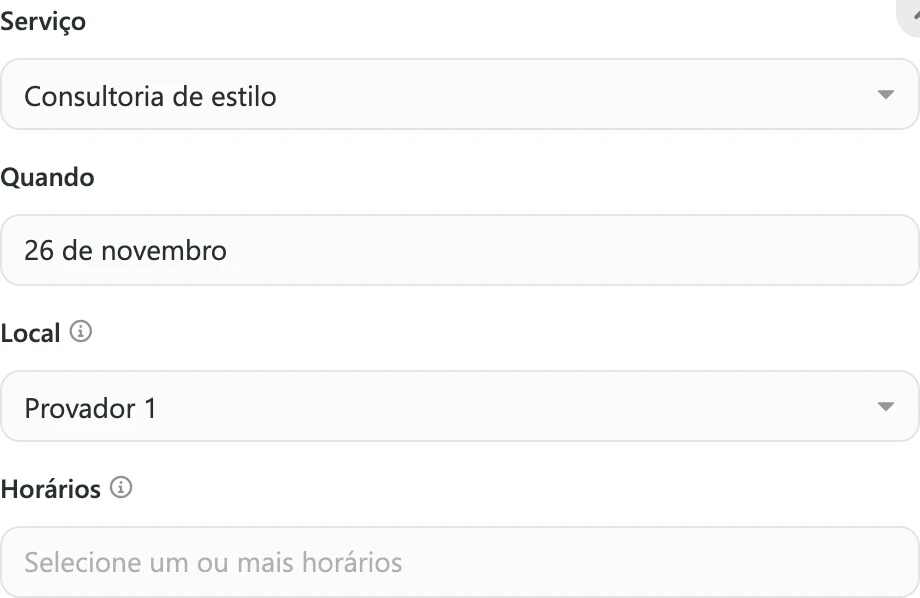
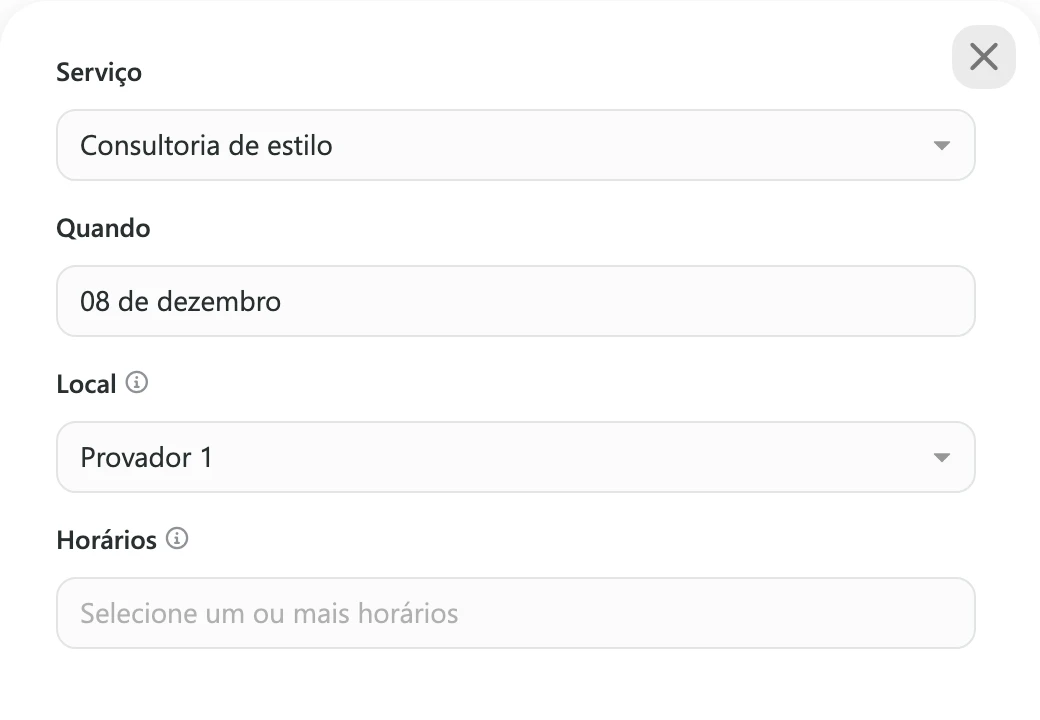
docs(ajuda): Kinbox Agenda, correções do conselho (rodada 1)
Tira a etapa da Agenda do seed e os caminhos com nome interno do
frontmatter; horário só selecionado no serviço; período da lista de
Tarefas; reagendar/cancelar só em Confirmado; detalhes e calendário;
permissões da Agenda; data de nascimento no agente; prints refeitos
e novo print do Tipo da tarefa.

diff --git a/scripts/screenshots/seed.ts b/scripts/screenshots/seed.ts
@@ -9,7 +9,7 @@
  *
  * Todos os nomes, e-mails (`example.com`) e telefones (`+55 11 90000-00NN`) são fictícios.
  */
-import { API_V0, DOCS_WORKSPACE_NAME, WEB_URL, client, findDocsWorkspace, login, sleep, type LoginWorkspace } from './staging'
+import { API_V0, DOCS_WORKSPACE_NAME, client, findDocsWorkspace, login, sleep, type LoginWorkspace } from './staging'
 
 // ---------------------------------------------------------------------------------------------------------
 // Cenário
@@ -940,125 +940,6 @@ async function garantirDashboard(api: Api) {
   log(`dashboard: "${DASHBOARD_EXEMPLO}"${reaproveitado ? ' (reaproveitado)' : ''}, ${snapshots.length} snapshot(s)`)
 }
 
-/**
- * Kinbox Agenda (prints da seção `agenda`): o horário `Atendimento com hora marcada`, os produtos e serviços
- * `Consultoria de estilo` e `Ajuste de roupa` (ativos) e `Personal shopper` (inativo), os locais `Provador 1`,
- * `Ateliê` e `Provador 2` (indisponível) e agendamentos de contatos fictícios na semana seguinte (um cancelado).
- * A Agenda é um serviço à parte: o endereço dele é lido do próprio app do staging (nada de host no repositório).
- * Nenhum lembrete é enviado (a tela de lembretes está desligada) e os contatos usam `example.com` e `+55 11 90000-00NN`.
- */
-async function enderecoAgenda() {
-  const html = await (await fetch(WEB_URL + '/')).text()
-  const js = html.match(/src="(\/assets\/index-[^"]+\.js)"/)?.[1]
-  if (!js) throw new Error('não achei o bundle do app do staging para ler o endereço da Agenda')
-  const bundle = await (await fetch(WEB_URL + js)).text()
-  const base = bundle.match(/kingendaUrl:"([^"]+)",key:"staging"/)?.[1]
-  if (!base) throw new Error('não achei o endereço da Agenda no app do staging')
-  return base
-}
-
-async function garantirAgenda(api: Api, token: string, contatoIds: Record<string, string>) {
-  const base = await enderecoAgenda()
-  const agenda = async (method: string, path: string, body?: unknown) => {
-    const res = await fetch(base + path, {
-      method,
-      headers: { Authorization: `Bearer ${token}`, 'Content-Type': 'application/json', 'Accept-Language': 'pt-BR' },
-      body: body === undefined ? undefined : JSON.stringify(body),
-    })
-    const text = await res.text()
-    if (!res.ok) throw new Error(`Agenda ${method} ${path} → ${res.status}: ${text.slice(0, 300)}`)
-    return text ? JSON.parse(text) : null
-  }
-  const me = await agenda('GET', '/workspaces/me').catch(() => null)
-  if (!me?.exists) throw new Error('o workspace ainda não existe na Agenda: abra o app uma vez com a conta proprietária')
-
-  // Horário dos serviços (segunda a sexta, 9h às 18h; sábado, 9h às 13h)
-  const NOME_HORARIO = 'Atendimento com hora marcada'
-  let horario = lista(await api.v0('GET', '/business-hours')).find((h) => h.name === NOME_HORARIO)
-  const util = { active: true, hours: [['09:00', '18:00']] }
-  const sabado = { active: true, hours: [['09:00', '13:00']] }
-  if (!horario) {
-    horario = await api.v0('POST', '/business-hours', {
-      name: NOME_HORARIO, mon: util, tue: util, wed: util, thu: util, fri: util, sat: sabado, sun: { active: false, hours: [] },
-    })
-    horario = lista(await api.v0('GET', '/business-hours')).find((h) => h.name === NOME_HORARIO) || horario
-  }
-  // Mesmo formato que a tela manda (espelho do horário: mon..sun com active/hours)
-  const DIAS = [1, 2, 3, 4, 5, 6]
-  const semana = { mon: util, tue: util, wed: util, thu: util, fri: util, sat: sabado, sun: { active: false } }
-
-  // Produtos e serviços
-  const SERVICOS = [
-    { name: 'Consultoria de estilo', description: 'Sessão com uma consultora para montar looks.', price: 200, minutos: 60, ativo: true },
-    { name: 'Ajuste de roupa', description: 'Prova e marcação de ajustes na peça.', price: 50, minutos: 30, ativo: true },
-    { name: 'Personal shopper', description: 'Acompanhamento de compras na loja.', price: 300, minutos: 90, ativo: false },
-  ]
-  const produtos = lista(await api.v3('GET', '/products?limit=100'))
-  const servicos = lista(await agenda('GET', '/services?limit=100'))
-  for (const s of SERVICOS) {
-    let produto = produtos.find((p) => p.name === s.name)
-    if (!produto) produto = await api.v3('POST', '/products', { name: s.name, description: s.description, price: s.price, isActive: s.ativo })
-    const existente = servicos.find((x) => x.name === s.name)
-    if (existente) {
-      if (existente.availableDaysOfWeek?.length !== DIAS.length) await agenda('PATCH', `/services/${existente._id}`, { availableDaysOfWeek: DIAS })
-      continue
-    }
-    servicos.push(
-      await agenda('POST', '/services', {
-        name: s.name, description: s.description, price: String(s.price * 100), defaultDurationMinutes: s.minutos,
-        status: s.ativo ? 'active' : 'inactive', weeklySchedule: semana, availableDaysOfWeek: DIAS, businessHoursExternalId: String(horario.id ?? horario._id),
-        productExternalId: String(produto.id), priceTiers: [], generatePaymentLink: false,
-      }),
-    )
-  }
-  const servico = (nome: string) => servicos.find((x) => x.name === nome)
-
-  // Locais
-  const LOCAIS = [
-    { name: 'Provador 1', location: 'Loja Centro', servicos: ['Consultoria de estilo', 'Ajuste de roupa'], status: 'available' },
-    { name: 'Ateliê', location: 'Bloco A', servicos: ['Ajuste de roupa'], status: 'available' },
-    { name: 'Provador 2', location: 'Loja Centro', servicos: ['Consultoria de estilo'], status: 'unavailable' },
-  ]
-  const locais = lista(await agenda('GET', '/resources?limit=100'))
-  for (const l of LOCAIS) {
-    if (locais.some((x) => x.name === l.name)) continue
-    locais.push(
-      await agenda('POST', '/resources', {
-        name: l.name, location: l.location, services: l.servicos.map((n) => servico(n)?._id).filter(Boolean),
-        status: l.status, sortOrder: 0, capacity: 1, allocationPriority: 5, combinable: true,
-      }),
-    )
-  }
-  const local = (nome: string) => locais.find((x) => x.name === nome)
-
-  // Agendamentos na semana seguinte (horário literal, sem fuso, como a tela grava)
-  const AGENDAMENTOS = [
-    { contato: 'Ana Souza', servico: 'Consultoria de estilo', local: 'Provador 1', dia: 1, inicio: '10:00', fim: '11:00' },
-    { contato: 'Mariana Lima', servico: 'Ajuste de roupa', local: 'Ateliê', dia: 1, inicio: '14:00', fim: '14:30' },
-    { contato: 'Juliana Rocha', servico: 'Consultoria de estilo', local: 'Provador 1', dia: 2, inicio: '15:00', fim: '16:00' },
-    { contato: 'Rafael Martins', servico: 'Ajuste de roupa', local: 'Ateliê', dia: 3, inicio: '11:00', fim: '11:30', cancelar: true },
-  ]
-  const segunda = new Date()
-  segunda.setDate(segunda.getDate() + ((8 - segunda.getDay()) % 7 || 7))
-  const dia = (n: number) => {
-    const d = new Date(segunda)
-    d.setDate(d.getDate() + n - 1)
-    return d.toISOString().slice(0, 10)
-  }
-  const existentes = lista(await agenda('GET', '/bookings?limit=100'))
-  if (existentes.length) return log(`agenda: ${servicos.length} serviços, ${locais.length} locais, ${existentes.length} agendamentos já existiam`)
-  for (const a of AGENDAMENTOS) {
-    const c = CONTATOS.find((x) => x.name === a.contato)!
-    const reserva = await agenda('POST', '/bookings', {
-      startDateTime: `${dia(a.dia)}T${a.inicio}:00.000Z`, endDateTime: `${dia(a.dia)}T${a.fim}:00.000Z`,
-      serviceId: servico(a.servico)?._id, resourceId: local(a.local)?._id,
-      user: { name: c.name, email: c.email, phone: c.phone, birthDate: '1990-05-10T00:00:00.000Z', contactExternalId: String(contatoIds[c.name]) },
-    })
-    if (a.cancelar) await agenda('PATCH', `/bookings/${reserva._id ?? reserva.id}`, { status: 'cancelled' })
-  }
-  log(`agenda: ${servicos.length} serviços, ${locais.length} locais, ${AGENDAMENTOS.length} agendamentos criados`)
-}
-
 // As etapas abaixo são independentes: uma falha é registrada e o seed segue com as outras
 // (as funções só rodam no laço do fim, depois que `api`, `canal`, `tagIds` e `contatoIds` existem)
 const falhas: Record<string, string> = {}
@@ -1077,7 +958,6 @@ const etapas: [string, () => Promise<unknown>][] = [
   ['salas', () => garantirSalas(api)],
   ['cenarios', () => garantirCenarios(api, canal)],
   ['dashboard', () => garantirDashboard(api)],
-  ['agenda', () => garantirAgenda(api, workspace.token, contatoIds)],
 ]
 // `bun seed.ts --so funil,membros,crm` roda só as etapas listadas (as do começo, idempotentes, rodam sempre).
 // `crm` depende de `funil` (o funil "Vendas") e de `membros` (os responsáveis): rode as três juntas.

diff --git a/llm/agenda/kinbox-agenda.md b/llm/agenda/kinbox-agenda.md
@@ -1,30 +1,25 @@
 ---
 title: "Agenda: disponibilidade, permissões, tarifas, reserva de lugares e capacidade"
 description: Regras e limites do Kinbox Agenda — disponibilidade por workspace, permissões e o que cada uma mostra, serviços, tarifas adicionais, reserva de lugares, capacidade dos locais, agendamentos, presença, reagendamento, cancelamento, dados exigidos do contato, mensagens de erro e o que a Agenda não faz.
-keywords: [kinbox agenda plano, adicione o agenda ao seu plano, liberar potencial agora, permissão gerenciar agendamentos, não vejo agendamentos, limite de pessoas, unir locais, intervalo entre reservas, capacidade do local, ordem de uso, pode ser juntado, ambiente, trocar espaços, selecione no máximo 10 espaços, agenda indisponível, nenhum horário disponível, data de nascimento obrigatória, campo vinculado ao kinbox agenda, fuso horário da agenda, lembrete de agendamento, google calendar agenda, excluir agendamento]
+keywords: [kinbox agenda plano, adicione o agenda ao seu plano, liberar potencial agora, permissão gerenciar agendamentos, não vejo agendamentos, limite de pessoas, unir locais, intervalo entre reservas, capacidade do local, ordem de uso, pode ser juntado, ambiente, trocar espaços, selecione no máximo 10 espaços, agenda indisponível, nenhum horário disponível, data de nascimento obrigatória, campo vinculado ao kinbox agenda, fuso horário da agenda, lembrete de agendamento, google calendar agenda, excluir agendamento, desmarcar, cliente faltou, não compareceu, bloquear horário, feriado, encaixe, agendamento não aparece na lista]
 publico: llm
 tipo: referencia
 fontes:
-  - web:src/pages/settings/agendas/EditKingendaService.tsx
-  - web:src/pages/settings/agendas/EditKingendaResource.tsx
-  - web:src/pages/kingenda/kingendaBookingDetails.tsx
+  - web:src/pages/settings/agendas/**
+  - web:src/pages/settings/location/**
   - web:src/pages/crm/tasks/EditTask.tsx
+  - web:src/pages/crm/tasks/index.tsx
+  - web:src/components-old/common/BigCalendar/index.tsx
   - web:src/pages/settings/roles/permissionSections.tsx
-  - web:src/hooks/useKingendaEnabled.ts
   - web:src/pages/agents/flow/useFlow.tsx
   - web:src/pages/agents/components/tools/ToolsPicker.tsx
   - api:src/modules/agents/flow/actions/agenda.helper.ts
   - api:src/modules/agents/flow/actions/agenda.operations.ts
 codigo:
-  - web:src/pages/kingenda/**
   - web:src/pages/settings/agendas/**
   - web:src/pages/settings/location/**
-  - web:src/pages/crm/tasks/EditTask.tsx
+  - web:src/pages/crm/tasks/**
   - web:src/components-old/common/BigCalendar/**
-  - web:src/lib/kingendaProductSync.ts
-  - web:src/lib/kingendaContactSync.ts
-  - web:src/hooks/useKingendaEnabled.ts
-  - web:src/hooks/useEnsureKingendaWorkspace.ts
   - api:src/modules/agenda/**
   - api:src/modules/agents/flow/actions/agenda.*
 verificado_em: 2026-11-26
@@ -35,8 +30,8 @@ Referência de regras, limites e mensagens do **Kinbox Agenda**. Complementa [Ki
 ## Disponibilidade e agentes de IA
 
 - Cada workspace tem a sua própria Agenda, sem ativação manual: a Kinbox prepara a Agenda do workspace quando o proprietário entra na Kinbox (ou ao criar ou entrar em um workspace novo).
-- **Agentes de IA:** as ferramentas **Listar serviços**, **Consultar horários**, **Criar agendamento**, **Listar agendamentos**, **Reagendar** e **Cancelar agendamento** (e os blocos equivalentes do fluxograma) usam a mesma Agenda do workspace. O agente lista, reagenda e cancela apenas agendamentos do contato da conversa, encontrados pelo telefone, e registra uma nota interna na conversa ao criar um agendamento. Veja [Dar ferramentas ao agente: Agenda, Google Calendar e HubSpot](/docs/agente-de-ia/ferramentas) e [Ações do fluxograma](/docs/agente-de-ia/acoes-do-fluxograma).
-- As ferramentas e os blocos da Agenda ficam liberados para o agente com o Kinbox Agenda ativo no workspace. Se a tela do agente mostrar o aviso **Adicione o Agenda ao seu plano** (com o botão **Liberar potencial agora**), fale com o suporte da Kinbox.
+- **Agentes de IA:** as ferramentas **Listar serviços**, **Consultar horários**, **Criar agendamento**, **Listar agendamentos**, **Reagendar** e **Cancelar agendamento** (e os blocos equivalentes do fluxograma) usam a mesma Agenda do workspace. O agente lista, reagenda e cancela apenas agendamentos do contato da conversa e registra uma nota interna na conversa ao criar um agendamento. Veja [Dar ferramentas ao agente: Agenda, Google Calendar e HubSpot](/docs/agente-de-ia/ferramentas) e [Ações do fluxograma](/docs/agente-de-ia/acoes-do-fluxograma).
+- As ferramentas e os blocos da Agenda ficam liberados para o agente com o Kinbox Agenda ativo no workspace. Se a tela do agente mostrar o aviso **Adicione o Agenda ao seu plano** (com o botão **Liberar potencial agora**), peça ao proprietário para entrar na Kinbox uma vez; se o aviso continuar, fale com o suporte da Kinbox.
 
 ## Permissões
 
@@ -44,28 +39,26 @@ As três permissões ficam na seção **Agendas** do papel (em **Configurações
 
 | Permissão | O que libera | O que acontece sem ela |
 | --- | --- | --- |
-| **Gerenciar serviços** | **Configurações** → **Agenda** → **Serviços**; cadastrar, editar, ativar e desativar serviços. | O item **Serviços** some do menu; abrir o endereço redireciona para **Configurações**. |
-| **Gerenciar locais** | **Configurações** → **Agenda** → **Local**; cadastrar, editar, ativar e desativar locais. | O item **Local** some do menu; abrir o endereço redireciona para **Configurações**. Sem **Gerenciar serviços** nem **Gerenciar locais**, a seção **Agenda** inteira some de **Configurações**. |
-| **Gerenciar agendamentos** | Ver agendamentos no **Calendário** e na lista de **Tarefas**; opção **Agendamento** em tarefa nova; botão **Filtros** da Agenda no calendário; ações nos detalhes (confirmar presença, reagendar, cancelar e trocar espaços). | Agendamentos não aparecem no calendário nem na lista de **Tarefas**, a opção **Agendamento** não aparece ao criar tarefa, os filtros da Agenda somem e os detalhes não exibem botões de ação. |
+| **Gerenciar serviços** | **Configurações** → **Agenda** → **Serviços**; cadastrar, editar, ativar e desativar serviços. | O item **Serviços** não aparece. |
+| **Gerenciar locais** | **Configurações** → **Agenda** → **Local**; cadastrar, editar, ativar e desativar locais. | O item **Local** não aparece. Sem **Gerenciar serviços** nem **Gerenciar locais**, a seção **Agenda** não aparece em **Configurações**. |
+| **Gerenciar agendamentos** | Ver agendamentos no **Calendário** e na lista de **Tarefas**; opção **Agendamento** em tarefa nova; botão **Filtros** da Agenda no calendário; ações nos detalhes (confirmar presença, reagendar, cancelar e trocar espaços). | Agendamentos não aparecem no calendário nem na lista de **Tarefas**, a opção **Agendamento** não aparece ao criar tarefa e os filtros da Agenda não aparecem. |
 
 - Para **ver** agendamentos no calendário e na lista de **Tarefas**, é necessário ter **Gerenciar agendamentos**.
-- **Sincronização das permissões:** as permissões são aplicadas à Agenda ao salvar o papel ou o membro. Em caso de falha na sincronização, aparecem:
-  - ao salvar papel: `"A permissão foi salva, mas não foi possível sincronizar o Kinbox Agenda para todos os membros."`
-  - ao salvar membro: `"Membro salvo, mas não foi possível sincronizar as permissões do Kinbox Agenda."`
-  - Contorno: salve o papel ou o membro novamente para refazer a sincronização.
+- Se, ao salvar um papel ou um membro, aparecer `"A permissão foi salva, mas não foi possível sincronizar o Kinbox Agenda para todos os membros."` ou `"Membro salvo, mas não foi possível sincronizar as permissões do Kinbox Agenda."`, salve de novo.
 
 ## Serviços e tarifas adicionais
 
 | Campo | Limite / regra | Padrão |
 | --- | --- | --- |
-| **Produto** | Obrigatório; lista apenas produtos ativos. Nome, descrição e preço vêm do produto. Pelo botão **Criar novo produto**, **Vincular ao Kinbox Agenda** abre ligado e travado e o preço inicial sugerido é `200`. Salvar o produto por **Criar novo produto** ou **Editar produto** exige também a permissão **Produtos** do papel ([Referência de permissões](/docs/administracao/referencia-de-permissoes)). | — |
+| **Produto** | Obrigatório; lista apenas produtos ativos. Nome, descrição e preço vêm do produto. Pelo botão **Criar novo produto**, **Vincular ao Kinbox Agenda** abre ligado e travado e o preço inicial sugerido é `200`. Para criar ou editar um produto por **Criar novo produto** ou **Editar produto**, é preciso a permissão **Produtos** (ou ser o proprietário); sem acesso a **Produtos** ou **Horários**, peça a quem tem para cadastrar o produto e o horário antes ([Referência de permissões](/docs/administracao/referencia-de-permissoes)). | — |
 | **Duração padrão (minutos)** | Obrigatório; mínimo `1`; ajuste de `5` em `5`. Com **Reserva de lugares** ligada, precisa ser múltiplo de `5`. | `60` |
-| **Horário** | Obrigatório; usa um cadastro de **Configurações** → **Ambiente** → **Horários** com ao menos um dia ativo. Mostra o resumo `"Dias: ... · HH:mm às HH:mm"`. | — |
+| **Horário** | Obrigatório; seleciona um horário já cadastrado em [Definir os horários de atendimento](/docs/configuracoes-no-workspace/criar-e-gerenciar-horarios), com ao menos um dia ativo. Criar e editar horários é feito nessa página. Mostra o resumo `"Dias: ... · HH:mm às HH:mm"`. | — |
 | **Tarifas adicionais** | Opcional; cada item (**Tarifa adicional N**) exige um **Horário** e um **Valor da tarifa** (mínimo `0`). Novo item começa com o preço do produto. Fora dessas faixas vale o preço padrão do produto. | Nenhuma |
 | **Reserva de lugares** | Chave opcional; muda o agendamento para reserva por quantidade de pessoas. | Desligada |
 | **Status** | **Ativo** ou **Inativo**. Serviços inativos não aparecem para novos agendamentos nem para vincular a locais. | **Ativo** |
 
-- Serviços não têm **Excluir** nem **Clonar**; apenas **Desativar** e **Ativar**. Ativar ou desativar o serviço ativa ou desativa o produto vinculado junto.
+- **Lista de serviços** (**Configurações** → **Agenda** → **Serviços**): campo **Pesquisar por nome** (busca por nome e descrição), filtro **Tudo** (**Tudo**, **Ativo** ou **Inativo**) e botão **Novo serviço**; com a lista vazia, aparece `"Nada encontrado"` com o botão **Adicionar**.
+- Serviços não têm **Excluir** nem **Clonar**; apenas **Desativar** e **Ativar** (confirmados em **Desativar** ou **Ativar** na janela **Desativar serviço** ou **Ativar serviço**). Ativar ou desativar o serviço ativa ou desativa o produto vinculado junto.
 - **Mensagens do cadastro de serviço:**
   - Produto inativo: `"Não é possível associar um produto inativo. Ative o produto antes de vinculá-lo ao serviço."`
   - Horário sem nenhum dia ativo: `"Horário se encontra com valores vazios. Selecione pelo menos um dia da semana."`
@@ -101,7 +94,7 @@ Com **Reserva de lugares** ligada, a Agenda escolhe a combinação de espaços l
 
 - **Campos:** **Nome** (obrigatório), **Localização** (opcional; aparece nos detalhes do agendamento), **Serviços vinculados** (obrigatório, um ou mais serviços ativos; serviços desativados depois aparecem com `(Inativo)`), **Status** (**Disponível**, padrão, ou **Indisponível**) e o bloco **Reserva de lugares** (só aparece se algum serviço vinculado tiver **Reserva de lugares** ligada).
 - **Mensagens:** sem serviço escolhido: `"Selecione ao menos um serviço ativo."`; sem nenhum serviço ativo no workspace: `"Nenhum serviço ativo disponível. Crie ou reative um serviço em Agenda > Serviços antes de continuar."`.
-- Locais não têm **Excluir** nem **Clonar**; apenas **Desativar** e **Ativar**. Um local **Indisponível** continua na lista, mas fica sem horários livres e aparece desabilitado no agendamento com a dica `"Agenda indisponível"`.
+- Locais não têm **Excluir** nem **Clonar**; apenas **Desativar** e **Ativar** (confirmados em **Desativar** ou **Ativar** na janela **Desativar local** ou **Ativar local**). Um local **Indisponível** continua na lista, mas fica sem horários livres e aparece desabilitado no agendamento com a dica `"Agenda indisponível"`.
 - **Divisão dos horários:** os horários oferecidos em cada local são o expediente do serviço dividido pela **Duração padrão (minutos)** (por exemplo, duração de 60 minutos em expediente de 09:00 às 18:00 oferece blocos de 09:00–10:00 até 17:00–18:00).
 
 ## Agendamentos, ações e filtros
@@ -109,24 +102,27 @@ Com **Reserva de lugares** ligada, a Agenda escolhe a combinação de espaços l
 - **Múltiplos horários:** em serviços sem reserva de lugares, **Horários** aceita vários horários de uma vez, criando um agendamento separado para cada um. Em serviços com reserva de lugares e ao **Reagendar**, só é possível escolher um horário por vez.
 - **Lista de serviços no formulário:** exibe apenas serviços ativos, de 10 em 10 com **Carregar mais**.
 - **Selos de horário:** faixas indisponíveis no campo **Horários** aparecem riscadas com **Reservado**, **Pendente** ou **Indisponível** (ou **Lotado** em reserva de lugares). Sem horários livres no dia: `"Nenhum horário disponível"`.
-- **Dados exigidos do contato:** nome, telefone, e-mail e data de nascimento, mais os campos personalizados obrigatórios do contato. Em **Novo contato**, **Nome**, **Telefone** e **Data de nascimento** são obrigatórios na tela e **Email** não aparece como obrigatório (só confere o formato: `"Email inválido."`), mas a Agenda exige o e-mail: preencha para o agendamento ser salvo. Contato existente incompleto exibe `"Esse contato ainda não tem os dados que o Kinbox Agenda exige. Preencha para continuar."` e grava o que for preenchido no contato. Contato já vinculado à Agenda não pede esses dados novamente.
+- **Dados exigidos do contato:** nome, telefone, e-mail e data de nascimento, mais os campos personalizados obrigatórios do contato. Contato escolhido na lista pode ser trocado por **Trocar**; o cadastro novo é descartado por **Remover contato**. Em **Novo contato**, **Nome**, **Telefone** e **Data de nascimento** são obrigatórios na tela e **Email** não aparece como obrigatório (só confere o formato: `"Email inválido."`), mas a Agenda exige o e-mail: preencha para o agendamento ser salvo. Contato existente incompleto exibe `"Esse contato ainda não tem os dados que o Kinbox Agenda exige. Preencha para continuar."`, pede só os dados que faltam e grava o que for preenchido no contato. Contato já vinculado à Agenda não pede esses dados novamente.
 - **Mensagens de validação e erro ao criar:** `"Selecione o serviço."`, `"Selecione o local."`, `"Selecione ao menos um horário."`, `"Selecione ou cadastre um contato."`, `"Informe o nome."`, `"Informe o telefone."`, `"Informe um e-mail válido."`, `"Email inválido."`, `"Não foi possível salvar o agendamento."` (seguido do motivo) e `"Não foi possível cadastrar o contato."`. Sucesso: `"Agendamento criado."`.
-- **Detalhes do agendamento:** mostra **Serviço**, **Recurso** (o local), **Localização**, **Cliente**, **E-mail**, **Telefone**, **Preço do serviço**, **Preço do agendamento** e, em reserva de lugares, **Pessoas**, **Espaço**/**Espaços** e **Espaço ocupado até**. Se o serviço ou local sofreu alteração depois da criação, aparece o aviso `"Houve mudança no agendamento, analisar se serviço continua disponível."`.
+- **Calendário:** cada agendamento aparece como `"<serviço> - <local>"`.
+- **Detalhes do agendamento:** mostra **Serviço**, **Recurso** (o local), **Localização** (sempre, com `"-"` quando vazia), os dados do cliente, **Preço do serviço** e **Preço do agendamento**. Em reserva de lugares, **Pessoas** e **Espaço**/**Espaços** aparecem no lugar de **Recurso**, e **Espaço ocupado até** só aparece quando o serviço tem **Intervalo entre reservas**. Se o serviço ou local sofreu alteração depois da criação, aparece o aviso `"Houve mudança no agendamento, analisar se serviço continua disponível."`.
 - **Presença (concluir):** status exibidos: **Confirmado** (ao criar), **Cancelado** e **Concluído**. Não há botão **Concluir**: a conclusão é feita pela caixinha **Confirmar presença** (exibida apenas em agendamentos **Confirmado** ou **Concluído**). Marcar muda para **Concluído** (`"Presença confirmada."`); desmarcar (**Desfazer confirmação de presença**) volta para **Confirmado** (`"Confirmação de presença desfeita."`). Erro: `"Só é possível confirmar a presença de agendamentos com status \"Confirmado\"."`.
+- **Reagendar e cancelar valem só para agendamentos Confirmado.** Os botões **Reagendar** e **Cancelar o agendamento** aparecem também em agendamentos **Cancelado** e **Concluído**, mas a ação termina em erro. Em agendamento **Concluído**, desmarcar **Confirmar presença** volta o status para **Confirmado**.
 - **Reagendar:** abre o formulário com o contato somente para leitura, para escolher um único horário. Sucesso: `"Agendamento reagendado."`. Erros: `"Não foi possível reagendar o agendamento."` e, em reserva de lugares sem vaga, `"Não há espaços livres para esse horário e quantidade de pessoas. A reserva original foi mantida."`.
 - **Cancelar:** pede confirmação em **Cancelar agendamento?** (`"Ao confirmar, este agendamento será marcado como cancelado. Essa ação não poderá ser desfeita."`), sem motivo e sem desfazer. Sucesso: `"Agendamento cancelado."`; erro: `"Não foi possível cancelar o agendamento."`. Agendamentos não são excluídos.
-- **Calendário, lista de Tarefas e exportação:** no calendário (visualizações **Mês**, **Semana**, **Dia** padrão e visualização **Agenda** em lista), **Filtros** filtra por **Local**, **Serviço** e **Status do agendamento** (**Confirmado**, **Cancelado**, **Concluído**), com **Limpar filtros**. Na lista de **Tarefas**, agendamentos **Cancelado** e **Concluído** ficam ocultos até filtrar por **Status do agendamento**; **Tipo** = **Agendamento** libera os filtros **Serviço**, **Local** e **Status do agendamento**. A lista carrega até **500** agendamentos, e a exportação da lista de Tarefas inclui os agendamentos.
+- **Calendário, lista de Tarefas e exportação:** no calendário (visualizações **Mês**, **Semana**, **Dia** padrão e visualização **Agenda** em lista), **Filtros** filtra por **Local**, **Serviço** e **Status do agendamento** (**Confirmado**, **Cancelado**, **Concluído**), com **Limpar filtros**. Na lista de **Tarefas**, aparecem só os agendamentos do período escolhido: com a visão padrão **Pendente** (e com **Esse mês**), os do mês atual; com **Hoje**, **Amanhã**, **Essa semana**, **Próxima semana** ou **Próximo mês**, os desse período; com **Atrasado**, os do último ano até hoje; o filtro **Período** define o intervalo. Agendamentos **Cancelado** e **Concluído** ficam ocultos até filtrar por **Status do agendamento**; **Tipo** = **Agendamento** libera os filtros **Serviço**, **Local** e **Status do agendamento**. A lista carrega até **500** agendamentos, e a exportação da lista de Tarefas inclui os agendamentos.
 
 ## Ligações com outras partes da Kinbox
 
 - **Produto ↔ serviço:** todo serviço é ligado a um produto ativo ([Cadastrar produtos](/docs/crm/criar-e-gerenciar-produtos)). Editar o produto atualiza nome, descrição, preço e status do serviço; ativar ou desativar o serviço atualiza o produto. Produto vinculado não é excluído (**Excluir** vira **Desativar produto**).
-- **Horário ↔ serviço:** o serviço grava uma cópia dos dias e horas de [Definir os horários de atendimento](/docs/configuracoes-no-workspace/criar-e-gerenciar-horarios) ao ser salvo. Editar o horário em **Configurações** → **Ambiente** → **Horários** (ou por **Editar horário**) não atualiza o serviço sozinho: abra o serviço e clique em **Salvar**. Um horário usado por serviço ativo não pode ser excluído (`"Não é possível excluir: esse horário está em uso pelo serviço \"{{name}}\" do Kinbox Agenda. Troque o horário desse serviço antes de excluir."`) nem ficar sem nenhum dia ativo (`"Esse horário está em uso pelo serviço \"{{name}}\" do Kinbox Agenda e precisa ter pelo menos um dia ativo."`).
+- **Horário ↔ serviço:** o serviço grava uma cópia dos dias e horas de [Definir os horários de atendimento](/docs/configuracoes-no-workspace/criar-e-gerenciar-horarios) ao ser salvo. Editar o horário em **Configurações** → **Ambiente** → **Horários** não atualiza o serviço sozinho: abra o serviço e clique em **Salvar**. Um horário usado por serviço ativo não pode ser excluído (`"Não é possível excluir: esse horário está em uso pelo serviço \"{{name}}\" do Kinbox Agenda. Troque o horário desse serviço antes de excluir."`) nem ficar sem nenhum dia ativo (`"Esse horário está em uso pelo serviço \"{{name}}\" do Kinbox Agenda e precisa ter pelo menos um dia ativo."`).
 - **Contato ↔ cliente da Agenda:** após o primeiro agendamento, o contato fica vinculado ao Kinbox Agenda (chave **Vincular ao Kinbox Agenda** em [Contatos: encontrar, cadastrar, editar e excluir](/docs/conversas/clientes-contatos-e-organizacoes)). Contatos com agendamentos não podem ser excluídos (`"Não é possível excluir: esse contato tem agendamentos vinculados no Kinbox Agenda."`).
 - **Campos personalizados criados pela Agenda:** **Data de nascimento** (contato, tipo dia, visível) nasce na primeira vez que alguém com **Gerenciar agendamentos** abre o formulário de agendamento. **Vinculado ao Kinbox Agenda** (contato) e **Serviço Kinbox Agenda vinculado** (produto) são campos de vínculo que não aparecem nos formulários comuns. Em **Campos personalizados** ([Criar campos personalizados](/docs/configuracoes-no-workspace/campos-personalizados-no-kinbox)), os campos da Agenda aparecem com a marca **Obrigatório**, só permitem editar a descrição e não podem ser clonados nem excluídos.
 - **Tarefas:** agendamento não é tarefa e não cria tarefa. Ele aparece no calendário e na lista de **Tarefas** apenas para consulta (**Visualizar**, sem **Excluir**). Excluir ou concluir uma tarefa não afeta agendamentos, e agendamentos não entram nos painéis de tarefas dos dashboards.
 
 ## Horário, avisos e recursos inexistentes
 
+- **Sem feriados nem bloqueio de horário:** a Agenda não tem cadastro de feriado, de data especial nem de bloqueio de horário. Para fechar um dia, desligue esse dia no horário em **Configurações** → **Ambiente** → **Horários** (um horário usado por serviço ativo precisa manter ao menos um dia ativo), abra o serviço e clique em **Salvar**; depois do feriado, religue o dia e salve o serviço de novo. Para tirar um local de uso, deixe-o **Indisponível**.
 - **Horário sem fuso:** os horários da Agenda são os da tela, sem conversão de fuso horário (os agentes de IA usam o horário de Brasília).
 - **Nenhum aviso automático ao contato:** criar, reagendar, cancelar ou confirmar presença não envia lembrete, confirmação nem aviso ao contato, e o membro também não recebe lembrete de agendamento. O único registro automático é a nota interna na conversa quando o agente de IA cria o agendamento. Contorno: mandar mensagem na conversa ou usar [Agendar uma mensagem](/docs/conversas/agendar-mensagem) (mensagens agendadas não acompanham alterações no agendamento).
 - **Sem Google Calendar, iCal, link público nem cobrança:** a Agenda não sincroniza com o Google Calendar, não exporta `.ics`, não tem página para o cliente agendar sozinho e não realiza cobranças. O Google Calendar existe na Kinbox apenas como ferramenta separada do agente de IA ([Dar ferramentas ao agente: Agenda, Google Calendar e HubSpot](/docs/agente-de-ia/ferramentas)).
@@ -137,8 +133,10 @@ Com **Reserva de lugares** ligada, a Agenda escolhe a combinação de espaços l
 | --- | --- | --- |
 | Não vejo **Agenda** em **Configurações** | Faltam **Gerenciar serviços** e/ou **Gerenciar locais** no papel | Peça a permissão a quem administra o workspace em **Configurações** → **Ambiente** → **Permissões**. |
 | Não aparece **Agendamento** ao criar tarefa ou não vejo agendamentos no calendário | Falta **Gerenciar agendamentos** no papel | Peça a permissão **Gerenciar agendamentos** a quem administra o workspace. |
-| Tela do agente mostra **Adicione o Agenda ao seu plano** | O Kinbox Agenda não está ativo no workspace | Fale com o suporte da Kinbox. |
-| Erro ao sincronizar permissões do Kinbox Agenda | Falha pontual ao salvar papel ou membro | Salve o papel ou o membro novamente para refazer a sincronização. |
+| Tela do agente mostra **Adicione o Agenda ao seu plano** | O Kinbox Agenda não está ativo no workspace | Peça ao proprietário para entrar na Kinbox uma vez; se continuar, fale com o suporte da Kinbox. |
+| Aviso de que não foi possível sincronizar o Kinbox Agenda ao salvar papel ou membro | Falha ao salvar | Salve o papel ou o membro de novo. |
+| Marquei para o mês que vem e não aparece na lista de **Tarefas** | A lista traz só os agendamentos do período escolhido (padrão: mês atual) | Escolha **Próximo mês** no seletor de status ou use o filtro **Período**. |
+| Erro ao reagendar ou cancelar | O agendamento está **Cancelado** ou **Concluído** | Só agendamentos **Confirmado** podem ser reagendados ou cancelados. |
 | Não acho o produto ao criar o serviço | O campo **Produto** lista apenas produtos ativos | Ative o produto em **Configurações** → **CRM** → **Produtos** ou use **Criar novo produto**. |
 | Serviço não aparece ao criar local ou ao agendar | O serviço está **Inativo** | Ative o serviço em **Configurações** → **Agenda** → **Serviços**. |
 | Mudei o horário e a Agenda continua com o antigo | O serviço guarda a cópia do horário no momento em que é salvo | Abra o serviço em **Configurações** → **Agenda** → **Serviços** e clique em **Salvar**. |

diff --git a/llm/administracao/referencia-de-permissoes.md b/llm/administracao/referencia-de-permissoes.md
@@ -56,7 +56,7 @@ Um workspace (na tela, **ambiente**) novo vem com papéis prontos definidos pela
 - **Avisos do editor:**
   - Fechar sem salvar: `"Fechar sem salvar?"` / `"Você vai perder as alterações se não salvar primeiro."` / **Prosseguir**.
   - Ao criar ou salvar: `"Permissão criado."` / `"Permissão salvo."`.
-  - Sincronização com Kinbox Agenda: salvar o papel atualiza as permissões da Agenda dos membros que o usam; em caso de falha, aparece `"A permissão foi salva, mas não foi possível sincronizar o Kinbox Agenda para todos os membros."`.
+  - Kinbox Agenda: se ao salvar aparecer `"A permissão foi salva, mas não foi possível sincronizar o Kinbox Agenda para todos os membros."`, salve o papel de novo.
 - **Editar um papel encerra a sessão de quem o usa:** na próxima vez que o membro abrir ou atualizar a Kinbox, a sessão termina e ele precisa entrar novamente (a aba já aberta continua com as permissões antigas até atualizar). O proprietário não é afetado.
 - **Clonar:** abre **Criar permissão** com `"Cópia de {nome}"` e as mesmas opções.
 - **Excluir:** confirmação `"Tem certeza que deseja excluir essa permissão?"`. Papel em uso não pode ser excluído: `"Não é possível excluir uma permissão que está sendo usada por um membro."` (troque antes o papel dos membros).
@@ -177,9 +177,9 @@ O que cada relatório mostra com estas opções: [Como os relatórios contam ses
 
 | Opção | Efeito na tela | Mensagem |
 | --- | --- | --- |
-| **Gerenciar agendamentos** | Permite criar, editar, reagendar, cancelar e excluir agendamentos do Kinbox Agenda (visualizar é liberado a qualquer membro). | — |
-| **Gerenciar locais** | Permite gerenciar locais e recursos do Kinbox Agenda e mostra **Configurações** → **Agenda** → **Local** quando a Agenda está liberada. | — |
-| **Gerenciar serviços** | Permite gerenciar serviços do Kinbox Agenda e mostra **Configurações** → **Agenda** → **Serviços** quando a Agenda está liberada. | — |
+| **Gerenciar agendamentos** | Permite ver agendamentos do Kinbox Agenda no calendário e na lista de **Tarefas** e criar, reagendar e cancelar agendamentos; sem ela, a pessoa não vê agendamentos ([Kinbox Agenda: visão geral](/docs/agenda/kinbox-agenda#quem-pode-usar)). | — |
+| **Gerenciar locais** | Permite cadastrar, editar, ativar e desativar locais do Kinbox Agenda e mostra **Configurações** → **Agenda** → **Local**. | — |
+| **Gerenciar serviços** | Permite cadastrar, editar, ativar e desativar serviços do Kinbox Agenda e mostra **Configurações** → **Agenda** → **Serviços**. | — |
 
 ### Copiloto
 
@@ -236,7 +236,7 @@ Seção exibida apenas em workspaces de parceiro. **Pode inspecionar clientes (B
 | **Configurações** → **Automação** → **Agentes de IA**, **Automações**, **Bot**, **Copiloto**, **Cenários** | **Agentes de IA**, **Automações**, **Bot**, **Copiloto**, **Cenários** |
 | **Configurações** → **Integrações** → **Apps**, **Plugins**, **API Tokens**, **MCP**; **Configurações** → **Marketing** → **Tracking** | **Integrações** |
 | **Configurações** → **CRM** → **Funis** e **Produtos** | **Funis** e **Produtos** |
-| **Configurações** → **Agenda** → **Local** e **Serviços** | **Gerenciar locais** e **Gerenciar serviços** (com Kinbox Agenda liberado) |
+| **Configurações** → **Agenda** → **Local** e **Serviços** | **Gerenciar locais** e **Gerenciar serviços** |
 | **Funis** no menu lateral | **Gerenciar negociações** |
 | **Clientes** no menu lateral | **Gerenciar Contatos** ou **Gerenciar Organizações** |
 | **Relatórios** no menu lateral | **Gerenciar relatórios** |

diff --git a/llm/agente-de-ia/acoes-do-fluxograma.md b/llm/agente-de-ia/acoes-do-fluxograma.md
@@ -72,7 +72,7 @@ Na janela **Selecione uma ação**, as abas são **Top** (todas), **Apps** (**Go
 | **Criar evento** (Apps › Google Calendar) | Conta Google, **Título**, **Início**, **Duração (minutos)**, **Descrição**, **Local**, **Convidados** (e-mails separados por vírgula), calendário (vazio = primário) | D, E | Exige conta Google conectada. | **Roda de verdade** (cria evento real) |
 | **Criar evento rápido** (Apps › Google Calendar) | Conta Google, **Texto** | D, E | Exige conta Google conectada. | **Roda de verdade** (cria evento real) |
 | **Consultar horários** (Apps › Kinbox Agenda) | **Serviço**, **Profissional**, **Data**, **Máximo de horários** | D, L | Exige o Kinbox Agenda ativo no workspace (sem ele, cadeado e **Liberar potencial agora**). **Máximo de horários**: 1 a 20 (padrão **5**). | Roda de verdade (somente leitura) |
-| **Criar agendamento** (Apps › Kinbox Agenda) | **Serviço**, **Profissional**, **Início** (término pela duração do serviço), **Data de nascimento**, quantidade de pessoas (só em serviços por capacidade) | D, L | Exige o Kinbox Agenda ativo no workspace. Exige nome, telefone, e-mail e **data de nascimento** do contato. Nome, telefone e e-mail vêm do contato; o que faltar no contato e a data de nascimento (que o contato da Kinbox não guarda) são tirados da conversa. Se ainda faltar algum dado, a saída traz `success: false` e `errorCode` igual a `missing_contact_data`, com os campos que faltam: ligue essa saída a um bloco que peça os dados ao contato. Quando o agendamento é criado, a equipe recebe uma nota interna com o resumo. | **Simulado** (não grava no Agenda) |
+| **Criar agendamento** (Apps › Kinbox Agenda) | **Serviço**, **Profissional**, **Início** (término pela duração do serviço), **Data de nascimento**, quantidade de pessoas (só em serviços por capacidade) | D, L | Exige o Kinbox Agenda ativo no workspace. Exige nome, telefone, e-mail e **data de nascimento** do contato. Nome, telefone e e-mail vêm do contato; o que faltar no contato é tirado da conversa (o agente não lê o campo de data de nascimento do contato e sempre obtém essa data na conversa). Se ainda faltar algum dado, a saída traz `success: false` e `errorCode` igual a `missing_contact_data`, com os campos que faltam: ligue essa saída a um bloco que peça os dados ao contato. Quando o agendamento é criado, a equipe recebe uma nota interna com o resumo. | **Simulado** (não grava no Agenda) |
 | **Listar agendamentos** (Apps › Kinbox Agenda) | **Apenas agendamentos futuros**, **Incluir cancelados** | D, L | Exige o Kinbox Agenda ativo no workspace. | Roda de verdade (somente leitura) |
 | **Reagendar** (Apps › Kinbox Agenda) | **Agendamento**, **Novo início**, **Manter o profissional atual** | D, L | Exige o Kinbox Agenda ativo no workspace. | **Simulado** (não altera o Agenda) |
 | **Cancelar agendamento** (Apps › Kinbox Agenda) | **Agendamento** | D, L | Exige o Kinbox Agenda ativo no workspace. | **Simulado** (não cancela no Agenda) |

diff --git a/llm/agente-de-ia/problemas-comuns.md b/llm/agente-de-ia/problemas-comuns.md
@@ -44,7 +44,7 @@ Matriz de diagnóstico complementar de [O agente não responde ou responde errad
 | Arquivo recusado ao subir no conhecimento | Acima de 5 MB ou formato fora de `.pdf`, `.txt`, `.docx` (inclusive `.md`) | `"O tamanho do arquivo é maior que o permitido. O Máximo é 5MB."` / `"O arquivo não é suportado."` | Reduzir o arquivo ou salvar `.md` como `.txt`. |
 | Agente responde sem usar ação do Google Calendar ou HubSpot | Conexão do app está expirada ou pendente | No campo **Conexão** da ferramenta aparece `"(expirada)"` ou `"(pendente)"`; as ações são ignoradas em silêncio sem aviso | Reconectar a conta em **Conexão** (permitir pop-ups; erros possíveis: `"Permita popups para autenticar"`, `"Falha na conexão"`, `"Tempo esgotado para autenticar"`). |
 | Ferramenta HTTP aparece sem nome no agente e não roda | A ferramenta HTTP foi excluída do workspace | Item sem nome no cartão **Ferramentas**; agente ignora em silêncio | Retirar o item do agente e cadastrar novamente se necessário. |
-| Blocos ou ferramentas do Kinbox Agenda bloqueados | Kinbox Agenda não está ativo no workspace | Aviso `"Adicione o Agenda ao seu plano"` e botão **Liberar potencial agora** | Falar com o suporte da Kinbox (veja [Kinbox Agenda: visão geral](/docs/agenda/kinbox-agenda)). |
+| Blocos ou ferramentas do Kinbox Agenda bloqueados | Kinbox Agenda não está ativo no workspace | Aviso `"Adicione o Agenda ao seu plano"` e botão **Liberar potencial agora** | Pedir ao proprietário para entrar na Kinbox uma vez; se continuar, falar com o suporte da Kinbox (veja [Kinbox Agenda: visão geral](/docs/agenda/kinbox-agenda)). |
 | Agente não transfere quando deveria | Ferramenta **Transferir para humano** não adicionada ou **Condição** vaga | Verificar cartão **Ferramentas** e painel **Inspeção** | Adicionar a ferramenta e detalhar a **Condição**. |
 | Fluxograma não publica | Bloco incompleto, ciclo sem espera ou regra de saída violada | `"Resolva os problemas de todas as etapas antes de publicar"`, `"Não é possível publicar: existe um loop infinito no fluxo."` e demais mensagens de publicação | Corrigir os blocos/setas indicados (ver [Ações do fluxograma](/docs/agente-de-ia/acoes-do-fluxograma)). |
 | Fluxograma parou com erro no meio da execução | Mesmo bloco rodou mais de 3 vezes na mesma rodada, ou bloco falhou sem seta **Erro** | Painel **Execução do agente** / **Inspeção** com erro | Revisar laços e adicionar seta **Erro** ou bloco **Erro não tratado** (lembrando que **Requisição HTTP** com falha segue pela saída normal). |

diff --git a/llm/faq/atendimento-feriados.md b/llm/faq/atendimento-feriados.md
@@ -25,7 +25,7 @@ A Kinbox não tem cadastro de feriados nem de datas especiais: cada horário val
 
 Você pode contornar isso de duas formas (como proprietário ou com a opção **Horários** na seção **Gerenciamento do Ambiente** do papel, chamado na tela de **Permissão**):
 
-- **Editar o horário antes do feriado:** vá em **Configurações** → **Ambiente** → **Horários** (no workspace, chamado na tela de **ambiente**), desligue o dia do feriado e ligue novamente depois. Essa mudança afeta tudo o que usa esse horário (relatórios, bot, campanhas, permissões, chat do site, Kinbox Agenda e mensagem de fora do horário).
+- **Editar o horário antes do feriado:** vá em **Configurações** → **Ambiente** → **Horários** (no workspace, chamado na tela de **ambiente**), desligue o dia do feriado e ligue novamente depois. Essa mudança afeta tudo o que usa esse horário (relatórios, bot, campanhas, permissões, chat do site, Kinbox Agenda e mensagem de fora do horário). No Kinbox Agenda, a mudança só vale depois de abrir o serviço que usa o horário e clicar em **Salvar** de novo, tanto ao desligar quanto ao religar o dia (veja [Cadastrar serviços e locais](/docs/agenda/servicos-e-locais)).
 - **Criar um horário separado para o período:** cadastre um novo horário em **Horários** e troque apenas nos lugares desejados — por exemplo, no campo **Horários** do bot (que não vale com **Atende todos os canais**) ou no campo **Horário comercial** de uma campanha. O horário escolhido como **Horário comercial** do workspace não pode ser excluído enquanto continuar como padrão.
 
 Veja mais em [Definir os horários de atendimento](/docs/configuracoes-no-workspace/criar-e-gerenciar-horarios).

diff --git a/llm/faq/agenda-google-calendar.md b/llm/faq/agenda-google-calendar.md
@@ -5,13 +5,13 @@ keywords: [google calendar, google agenda, sincronizar agenda, integrar agenda g
 publico: llm
 tipo: faq
 fontes:
-  - web:src/pages/kingenda/kingendaBookingDetails.tsx
+  - web:src/pages/settings/agendas/**
   - web:src/pages/agents/components/tools/tool.defs.tsx
   - api:src/modules/agents/flow/actions/googlecalendar-create-event.action.ts
   - api:src/modules/agents/flow/actions/agenda.helper.ts
 codigo:
-  - web:src/pages/kingenda/**
   - web:src/pages/settings/agendas/**
+  - web:src/components-old/common/BigCalendar/**
   - api:src/modules/agenda/**
 verificado_em: 2026-11-26
 ---

diff --git a/llm/faq/agenda-lembretes.md b/llm/faq/agenda-lembretes.md
@@ -6,12 +6,12 @@ publico: llm
 tipo: faq
 fontes:
   - web:src/pages/settings/index.tsx
-  - web:src/pages/kingenda/kingendaBookingDetails.tsx
+  - web:src/components-old/common/BigCalendar/index.tsx
   - web:src/pages/crm/tasks/EditTask.tsx
   - api:src/modules/agents/flow/actions/agenda.operations.ts
 codigo:
   - web:src/pages/settings/agendas/**
-  - web:src/pages/kingenda/**
+  - web:src/components-old/common/BigCalendar/**
   - web:src/pages/crm/tasks/EditTask.tsx
 verificado_em: 2026-11-26
 ---
